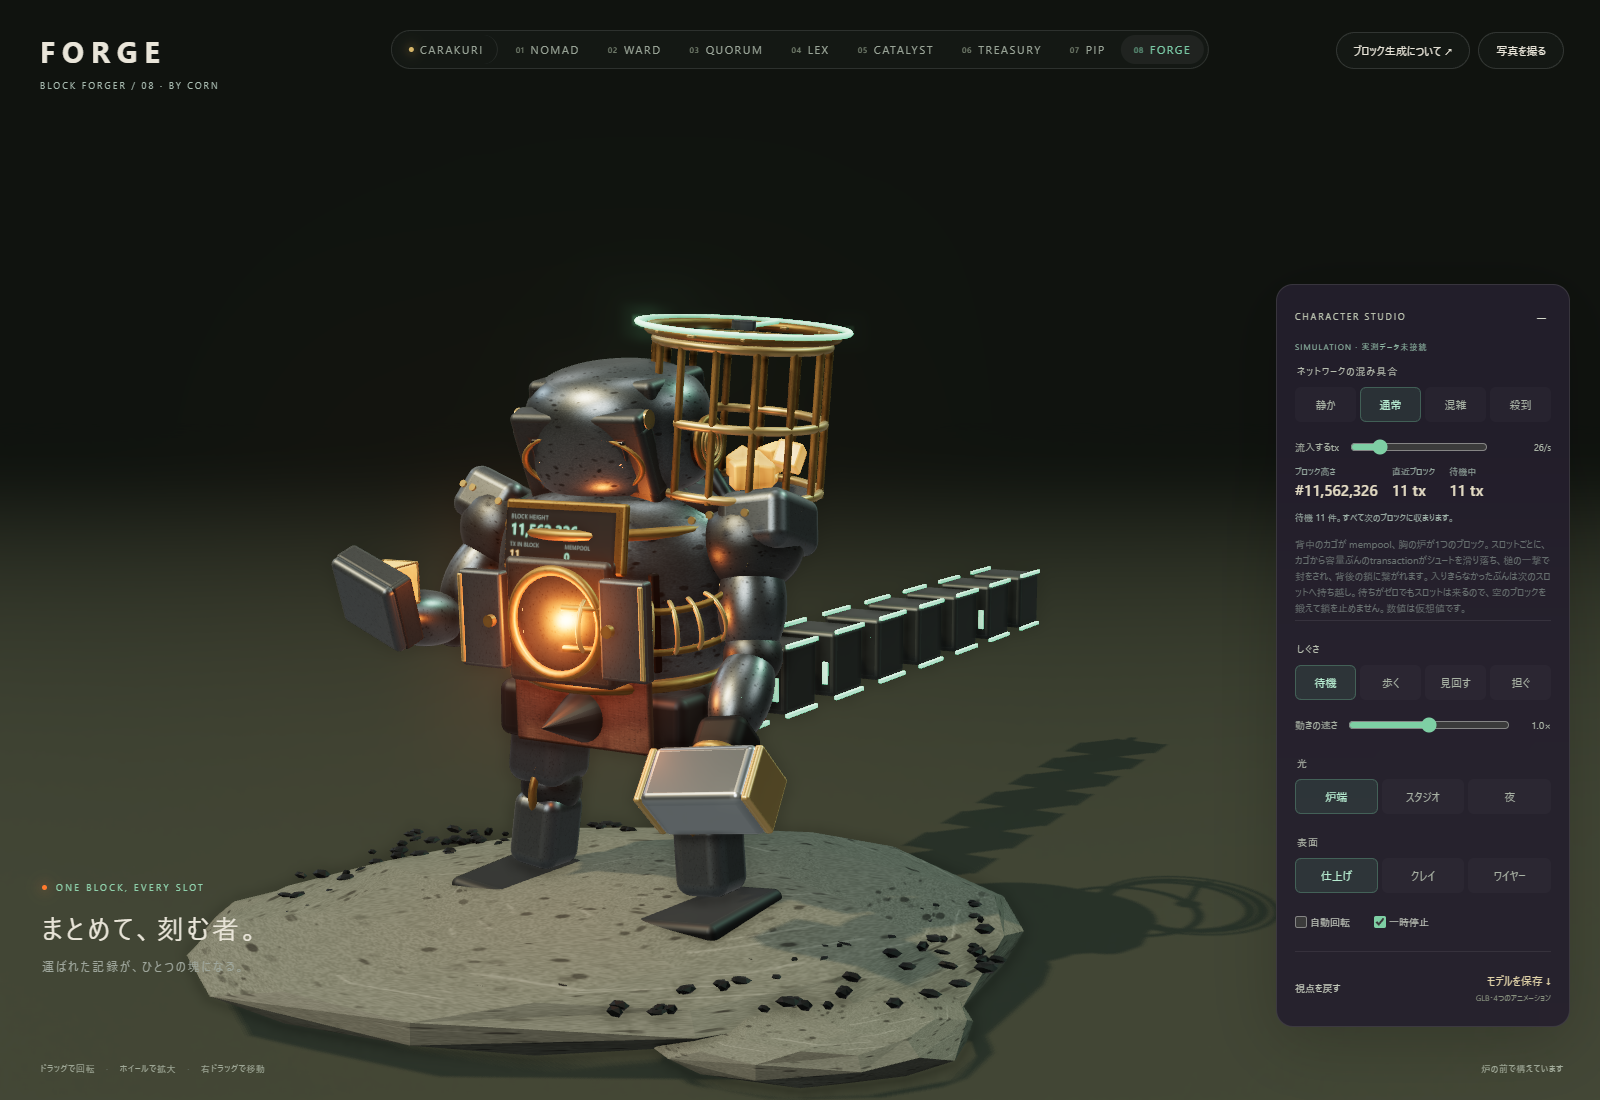
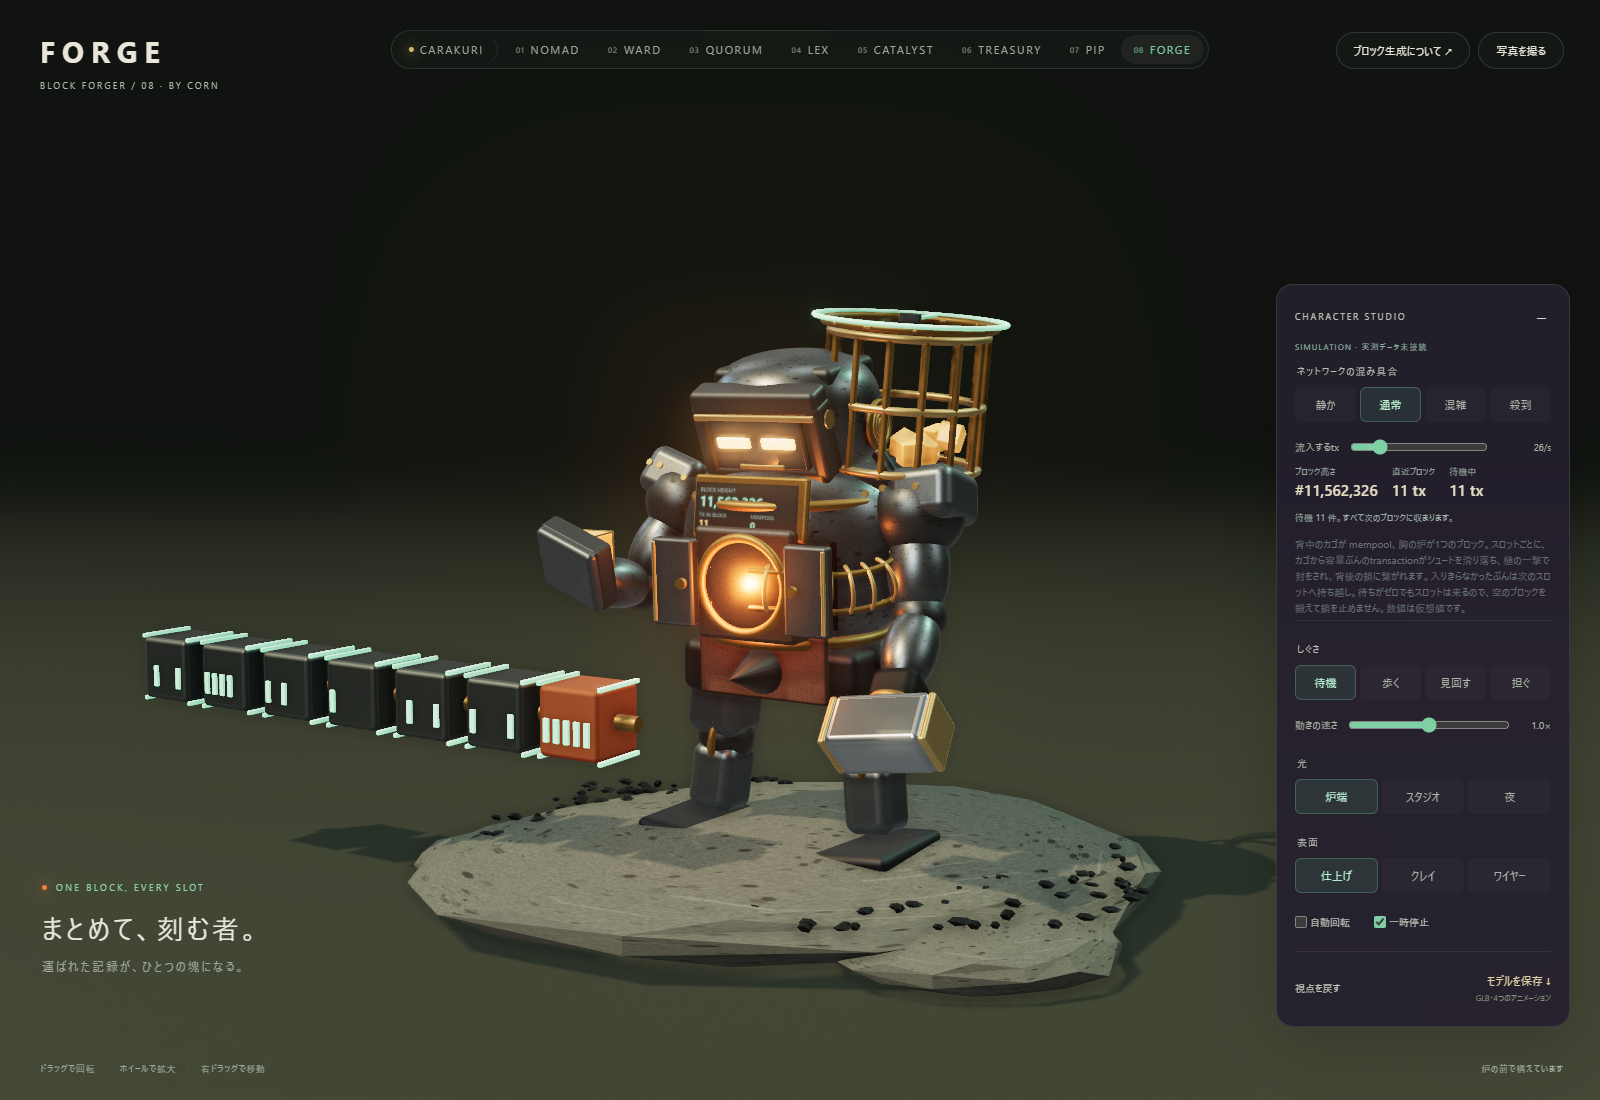
Put the chain in front of FORGE and give it a face
The chain ran away behind the smith, where it read as a tail on a machine
rather than the thing the machine is for. It lies in front now, laid out
sideways, and the sealed block leaves through the furnace door and slides
along to the near end of the row while the rest shunt over.

The face was a pair of lamps behind an opaque plate inside a brass ellipse,
so the ring was all anyone saw and the eyes shared the furnace material —
they dimmed whenever the fire did. The frame is horizontal now, the lamps sit
proud of the plate, and they have a material of their own.

Changed region(s): [[0.0938, 0.2782, 0.7812, 0.9891]]

diff --git a/forge/ward.js b/forge/ward.js
@@ -14,7 +14,7 @@ import { RoundedBoxGeometry } from 'three/addons/geometries/RoundedBoxGeometry.j
 // That is not a failure state, it is how the chain keeps its beat.
 const PERIOD=3.4;           // seconds per slot, chosen to read rather than to be accurate
 const MEMPOOL_MAX=48;       // how many cubes the hopper can show before it just reads as "full"
-const CHAIN=7,STEP=.74,CHAIN_Y=1.05,CHAIN_Z=-1.12;
+const CHAIN=6,STEP=.60,CHAIN_X=-.66,CHAIN_Y=.94,CHAIN_Z=1.46;
 
 let seed=4242;
 const rand=()=>{seed=(Math.imul(seed,1664525)+1013904223)>>>0;return seed/4294967296};
@@ -119,19 +119,19 @@ export function addWard({root,rig,M,helpers}){
 
   // ---- The chain. Bolted to the world, not to the body: the ledger does not
   // sway when the smith does.
-  const blockGeo=new RoundedBoxGeometry(.46,.46,.46,3,.035);
+  const blockGeo=new RoundedBoxGeometry(.44,.44,.44,3,.035);
   function makeBlock(){
     const g=group(root,null,0,CHAIN_Y,0);
     mesh(g,blockGeo,M.block);
-    for(const s of [-1,1])for(const e of [-1,1])box(g,M.seal,s*.235,e*.235,0,.03,.03,.44,.008);
+    for(const s of [-1,1])for(const e of [-1,1])box(g,M.seal,s*.225,e*.225,0,.03,.03,.42,.008);
     const bars=[];
-    for(let i=0;i<5;i++)bars.push(box(g,M.seal,-.16+i*.08,-.06,.24,.045,.16,.02,.006));
-    cyl(g,M.brass,0,0,.30,.05,.16,'z');cyl(g,M.brass,0,0,-.30,.05,.16,'z');
+    for(let i=0;i<5;i++)bars.push(box(g,M.seal,-.15+i*.075,-.05,.23,.042,.15,.02,.006));
+    for(const s of [-1,1])cyl(g,M.brass,s*.29,0,0,.05,.16,'x');
     return {g,bars,rehash(){for(const b of bars)b.visible=rand()>.42}};
   }
-  const chain=[];for(let i=0;i<CHAIN;i++){const b=makeBlock();b.rehash();b.g.position.z=CHAIN_Z-i*STEP;chain.push(b)}
+  const chain=[];for(let i=0;i<CHAIN;i++){const b=makeBlock();b.rehash();b.g.position.set(CHAIN_X-i*STEP,CHAIN_Y,CHAIN_Z);chain.push(b)}
   const links=[];
-  for(let i=0;i<CHAIN;i++){const l=cyl(root,M.iron,0,CHAIN_Y,0,.035,STEP-.46,'z');links.push(l)}
+  for(let i=0;i<CHAIN;i++){const l=cyl(root,M.iron,0,CHAIN_Y,CHAIN_Z,.035,STEP-.44,'x');links.push(l)}
   const hot=makeBlock();hot.g.visible=false;
   // The freshly sealed block runs hot and cools as it joins the chain.
   const hotShell=new T.MeshStandardMaterial({color:0x7a4a2c,emissive:0xff5a12,emissiveIntensity:2.2,roughness:.6,metalness:.5});
@@ -160,7 +160,7 @@ export function addWard({root,rig,M,helpers}){
     // The batch that has been in the furnace all cycle becomes a block.
     state.height++;state.lastCount=taken;
     const oldest=chain.pop();oldest.rehash();chain.unshift(oldest);
-    oldest.g.position.set(0,CHAIN_Y,CHAIN_Z);
+    oldest.g.position.set(CHAIN_X,CHAIN_Y,CHAIN_Z);
     // Draw the next batch out of the mempool; the remainder is the backlog.
     taken=Math.min(state.capacity,Math.floor(state.pending));
     state.pending-=taken;state.spill=Math.max(0,Math.floor(state.pending)-state.capacity);
@@ -267,13 +267,14 @@ export function addWard({root,rig,M,helpers}){
     hot.g.visible=out>0&&out<1;
     if(hot.g.visible){
       const e=ease(out);
-      hot.g.position.set(0,T.MathUtils.lerp(1.62,CHAIN_Y,e),T.MathUtils.lerp(-.72,CHAIN_Z,e));
+      // Out of the door, down, and along to the near end of the row.
+      hot.g.position.set(T.MathUtils.lerp(0,CHAIN_X,e),T.MathUtils.lerp(1.66,CHAIN_Y,e),T.MathUtils.lerp(1.00,CHAIN_Z,e));
       hot.g.rotation.set(0,(1-e)*1.4,0);
       hotShell.emissiveIntensity=2.2*(1-e)+.05;
     }
     for(let i=0;i<CHAIN;i++){
-      chain[i].g.position.z=CHAIN_Z-(i+out)*STEP;
-      const l=links[i];l.position.z=chain[i].g.position.z-STEP*.5;l.position.y=CHAIN_Y;
+      chain[i].g.position.x=CHAIN_X-(i+out)*STEP;
+      links[i].position.x=chain[i].g.position.x+STEP*.5;
     }
 
     // The clock hand sweeps one full turn per slot and the rim confirms the seal.

diff --git a/forge/model.js b/forge/model.js
@@ -41,6 +41,7 @@ export function createMaterials(){
     eye:new T.MeshPhysicalMaterial({name:'Welding visor glass',color:0x05090b,metalness:.2,roughness:.10,clearcoat:1,clearcoatRoughness:.05}),
     // The furnace: everything hot in this build shares one ember.
     ember:new T.MeshStandardMaterial({name:'Furnace ember',color:0xffca8a,emissive:0xff5a12,emissiveIntensity:3.2,roughness:1}),
+    gaze:new T.MeshStandardMaterial({name:'Eye lamp',color:0xffe6bd,emissive:0xffab3d,emissiveIntensity:2.4,roughness:1}),
     spark:new T.MeshBasicMaterial({name:'Forge spark',color:0xffd9a0,toneMapped:false}),
     // A transaction on its way in: the same amber cube PIP carries.
     packet:new T.MeshStandardMaterial({name:'Pending transaction',color:0xe8b465,emissive:0xff9c2a,emissiveIntensity:.55,metalness:.15,roughness:.26}),
@@ -89,14 +90,15 @@ export function buildRobot(M){
   lathe(head,M.plate,[[0,-.34],[.40,-.33],[.52,-.24],[.56,-.02],[.53,.20],[.42,.33],[.22,.40],[0,.41]],0,0,0,1.02,.90);
   box(head,M.iron,0,.24,-.02,.86,.20,.62,.05);
   // The welding visor drops for the strike; the slit eyes burn behind it.
-  const visor=rig.visor=group(head,'Visor',0,.16,.30);
-  box(visor,M.iron,0,-.02,.10,.88,.17,.15,.04);
-  box(visor,M.iron,0,-.44,.10,.88,.15,.15,.04);
-  for(const s of [-1,1])box(visor,M.iron,s*.37,-.23,.10,.15,.44,.15,.04);
-  box(visor,M.eye,0,-.23,.16,.64,.30,.05,.02);
-  torus(visor,M.brass,0,-.23,.17,.36,.020).scale.set(1.10,.52,1);
-  for(const s of [-1,1])cyl(visor,M.edge,s*.42,0,.06,.055,.05,'x');
-  for(const s of [-1,1]){const slit=box(visor,M.ember,s*.17,-.23,.195,.22,.05,.02,.012);slit.name='EyeSlit_'+s}
+  const visor=rig.visor=group(head,'Visor',0,.14,.36);
+  box(visor,M.iron,0,.06,.08,.90,.16,.20,.04);
+  box(visor,M.edge,0,-.02,.185,.86,.045,.03,.012);
+  box(visor,M.iron,0,-.46,.08,.86,.16,.20,.04);
+  for(const s of [-1,1])box(visor,M.iron,s*.40,-.20,.08,.12,.50,.20,.04);
+  box(visor,M.eye,0,-.20,.17,.66,.36,.06,.02);
+  for(const s of [-1,1]){const slit=box(visor,M.gaze,s*.16,-.18,.215,.24,.075,.03,.02);slit.name='EyeSlit_'+s}
+  box(visor,M.edge,0,-.35,.20,.32,.035,.03,.01);
+  for(const s of [-1,1])cyl(visor,M.edge,s*.44,-.08,.06,.06,.06,'x');
   // Ear intakes: the furnace has to breathe.
   for(const s of [-1,1]){const ear=group(head,'Intake_'+s,s*.54,-.06,-.02);ear.rotation.y=s*Math.PI/2;cyl(ear,M.dark,0,0,0,.15,.10,'z');torus(ear,M.brass,0,0,.05,.14,.022);for(let i=0;i<3;i++)torus(ear,M.edge,0,0,.07,.11-i*.035,.010)}
 

diff --git a/forge/viewer.js b/forge/viewer.js
@@ -17,9 +17,9 @@ renderer.setPixelRatio(Math.min(devicePixelRatio,1.7));renderer.setSize(innerWid
 const scene=new T.Scene();scene.background=new T.Color('#20241f');scene.fog=new T.FogExp2('#20241f',.032);
 const camera=new T.PerspectiveCamera(35,innerWidth/innerHeight,.1,100);
 const controls=new OrbitControls(camera,renderer.domElement);controls.enableDamping=true;controls.dampingFactor=.06;controls.minDistance=4.5;controls.maxDistance=200;controls.maxPolarAngle=Math.PI*.49;controls.minPolarAngle=.23;controls.autoRotateSpeed=.65;
-// Framed from the front-right: the chain runs away behind, so the default view
-// has to show both the furnace door and the ledger it feeds.
-function resetCamera(){const mobile=innerWidth<800;camera.position.set(mobile?6.2:5.6,mobile?3.6:3.2,mobile?12.5:8.6);controls.target.set(0,mobile?2.1:2.0,mobile?-.6:-.8);if(mobile){camera.setViewOffset(innerWidth,innerHeight,0,innerHeight*.18,innerWidth,innerHeight)}else{camera.setViewOffset(innerWidth,innerHeight,innerWidth*.065,0,innerWidth,innerHeight)}controls.update()}
+// Framed from the front-right and offset to the left: the chain of finished
+// blocks lies in front of the smith, so the shot has to hold both.
+function resetCamera(){const mobile=innerWidth<800;camera.position.set(mobile?6.0:5.6,mobile?3.6:3.1,mobile?13.5:9.9);controls.target.set(mobile?-.4:-.52,mobile?2.0:1.90,mobile?.4:.45);if(mobile){camera.setViewOffset(innerWidth,innerHeight,0,innerHeight*.18,innerWidth,innerHeight)}else{camera.setViewOffset(innerWidth,innerHeight,innerWidth*.065,0,innerWidth,innerHeight)}controls.update()}
 resetCamera();
 const pmrem=new T.PMREMGenerator(renderer),envScene=new RoomEnvironment();const env=pmrem.fromScene(envScene,.04);scene.environment=env.texture;scene.environmentIntensity=.52;envScene.dispose();pmrem.dispose();
 const hemi=new T.HemisphereLight(0xbcc6cf,0x3a2a1c,1.25);scene.add(hemi);

diff --git a/shared/series.js b/shared/series.js
@@ -85,9 +85,9 @@ export const SERIES = [
   },
   {
     id: 'forge',
-    // Framed a little right of the body so a few links of the chain come with it:
-    // the chain is half of what this one is.
-    crop: {x: 357, y: 272, w: 570, h: 760},
+    // Framed a little left of the body so the near end of the chain comes with
+    // it: the chain is half of what this one is.
+    crop: {x: 505, y: 240, w: 620, h: 827},
     no: '08',
     name: 'FORGE',
     role: 'BLOCK FORGER',
